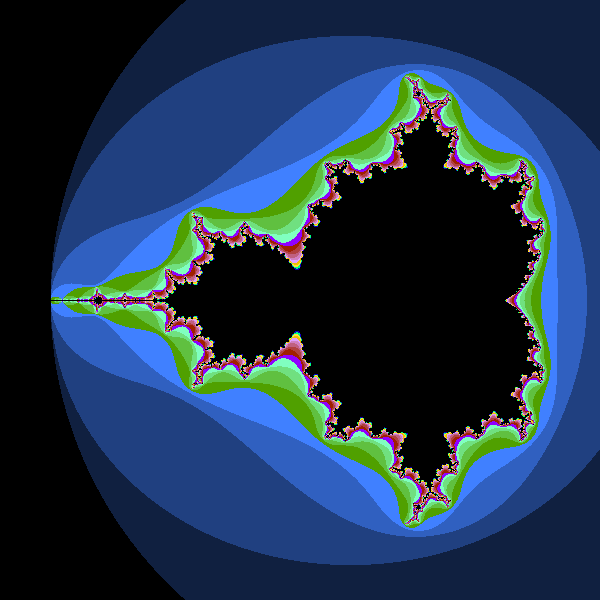
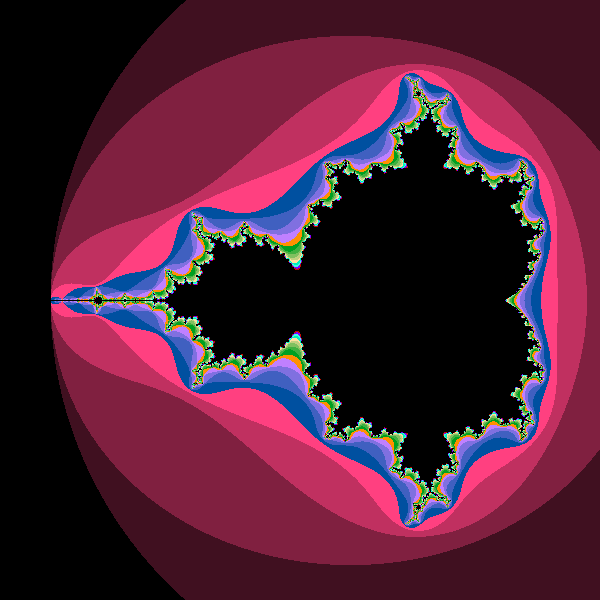
Tests wg. Bildbetrachtung

diff --git a/sources/turtle/tiles.py b/sources/turtle/tiles.py
@@ -1,0 +1,44 @@
+import turtle as t
+import random
+
+SIZE  = 600
+SIZE2 = 275
+
+t.setup(width = SIZE, height = SIZE, startx = 50, starty = 50)
+t.colormode(255)
+win = t.Screen()
+win.bgcolor(235, 215, 182)
+win.title("Kacheln mit der Schildkröte")
+
+alice = t.Turtle()
+alice.pensize(3)
+
+
+def tiling(x, y, s, l):
+    
+    if l == 0:
+        
+        if random.random() < 0.5:
+            alice.penup()
+            alice.goto(x, y - s)
+            alice.pendown()
+            alice.goto(x, y + s)
+        else:
+            alice.penup()
+            alice.goto(x - s, y)
+            alice.pendown()
+            alice.goto(x + s, y)
+    else:
+        s /= 2
+        l -= 1
+        tiling(x - s, y + s, s, l)
+        tiling(x + s, y + s, s, l)
+        tiling(x - s, y - s, s, l)
+        tiling(x + s, y - s, s, l)
+        
+            
+alice.hideturtle()
+win.tracer(False)
+tiling(0, 0, SIZE2, 5)
+win.tracer(True)
+t.exitonclick()

diff --git a/sources/fractale/mandelbrot2.py b/sources/fractale/mandelbrot2.py
@@ -29,8 +29,8 @@ def mandelbrot():
                 if i == (maxiter - 1):
                     color = (0, 0, 0)
                 else:
-                    color = (i%17*16, i%9*32, i%5*64)
-                    # color = (i%5*64, i%17*16, i%9*32)
+                    # color = (i%17*16, i%9*32, i%5*64)
+                    color = (i%5*64, i%17*16, i%9*32)
                 img.putpixel((x, y), color)
     return img
 
@@ -38,7 +38,7 @@ def mandelbrot():
 mandel = mandelbrot()
 
 mandel.save("images/mandel1.png")
-mandel.show()
+# mandel.show()
 
 print("I did it, Babe!")
 
